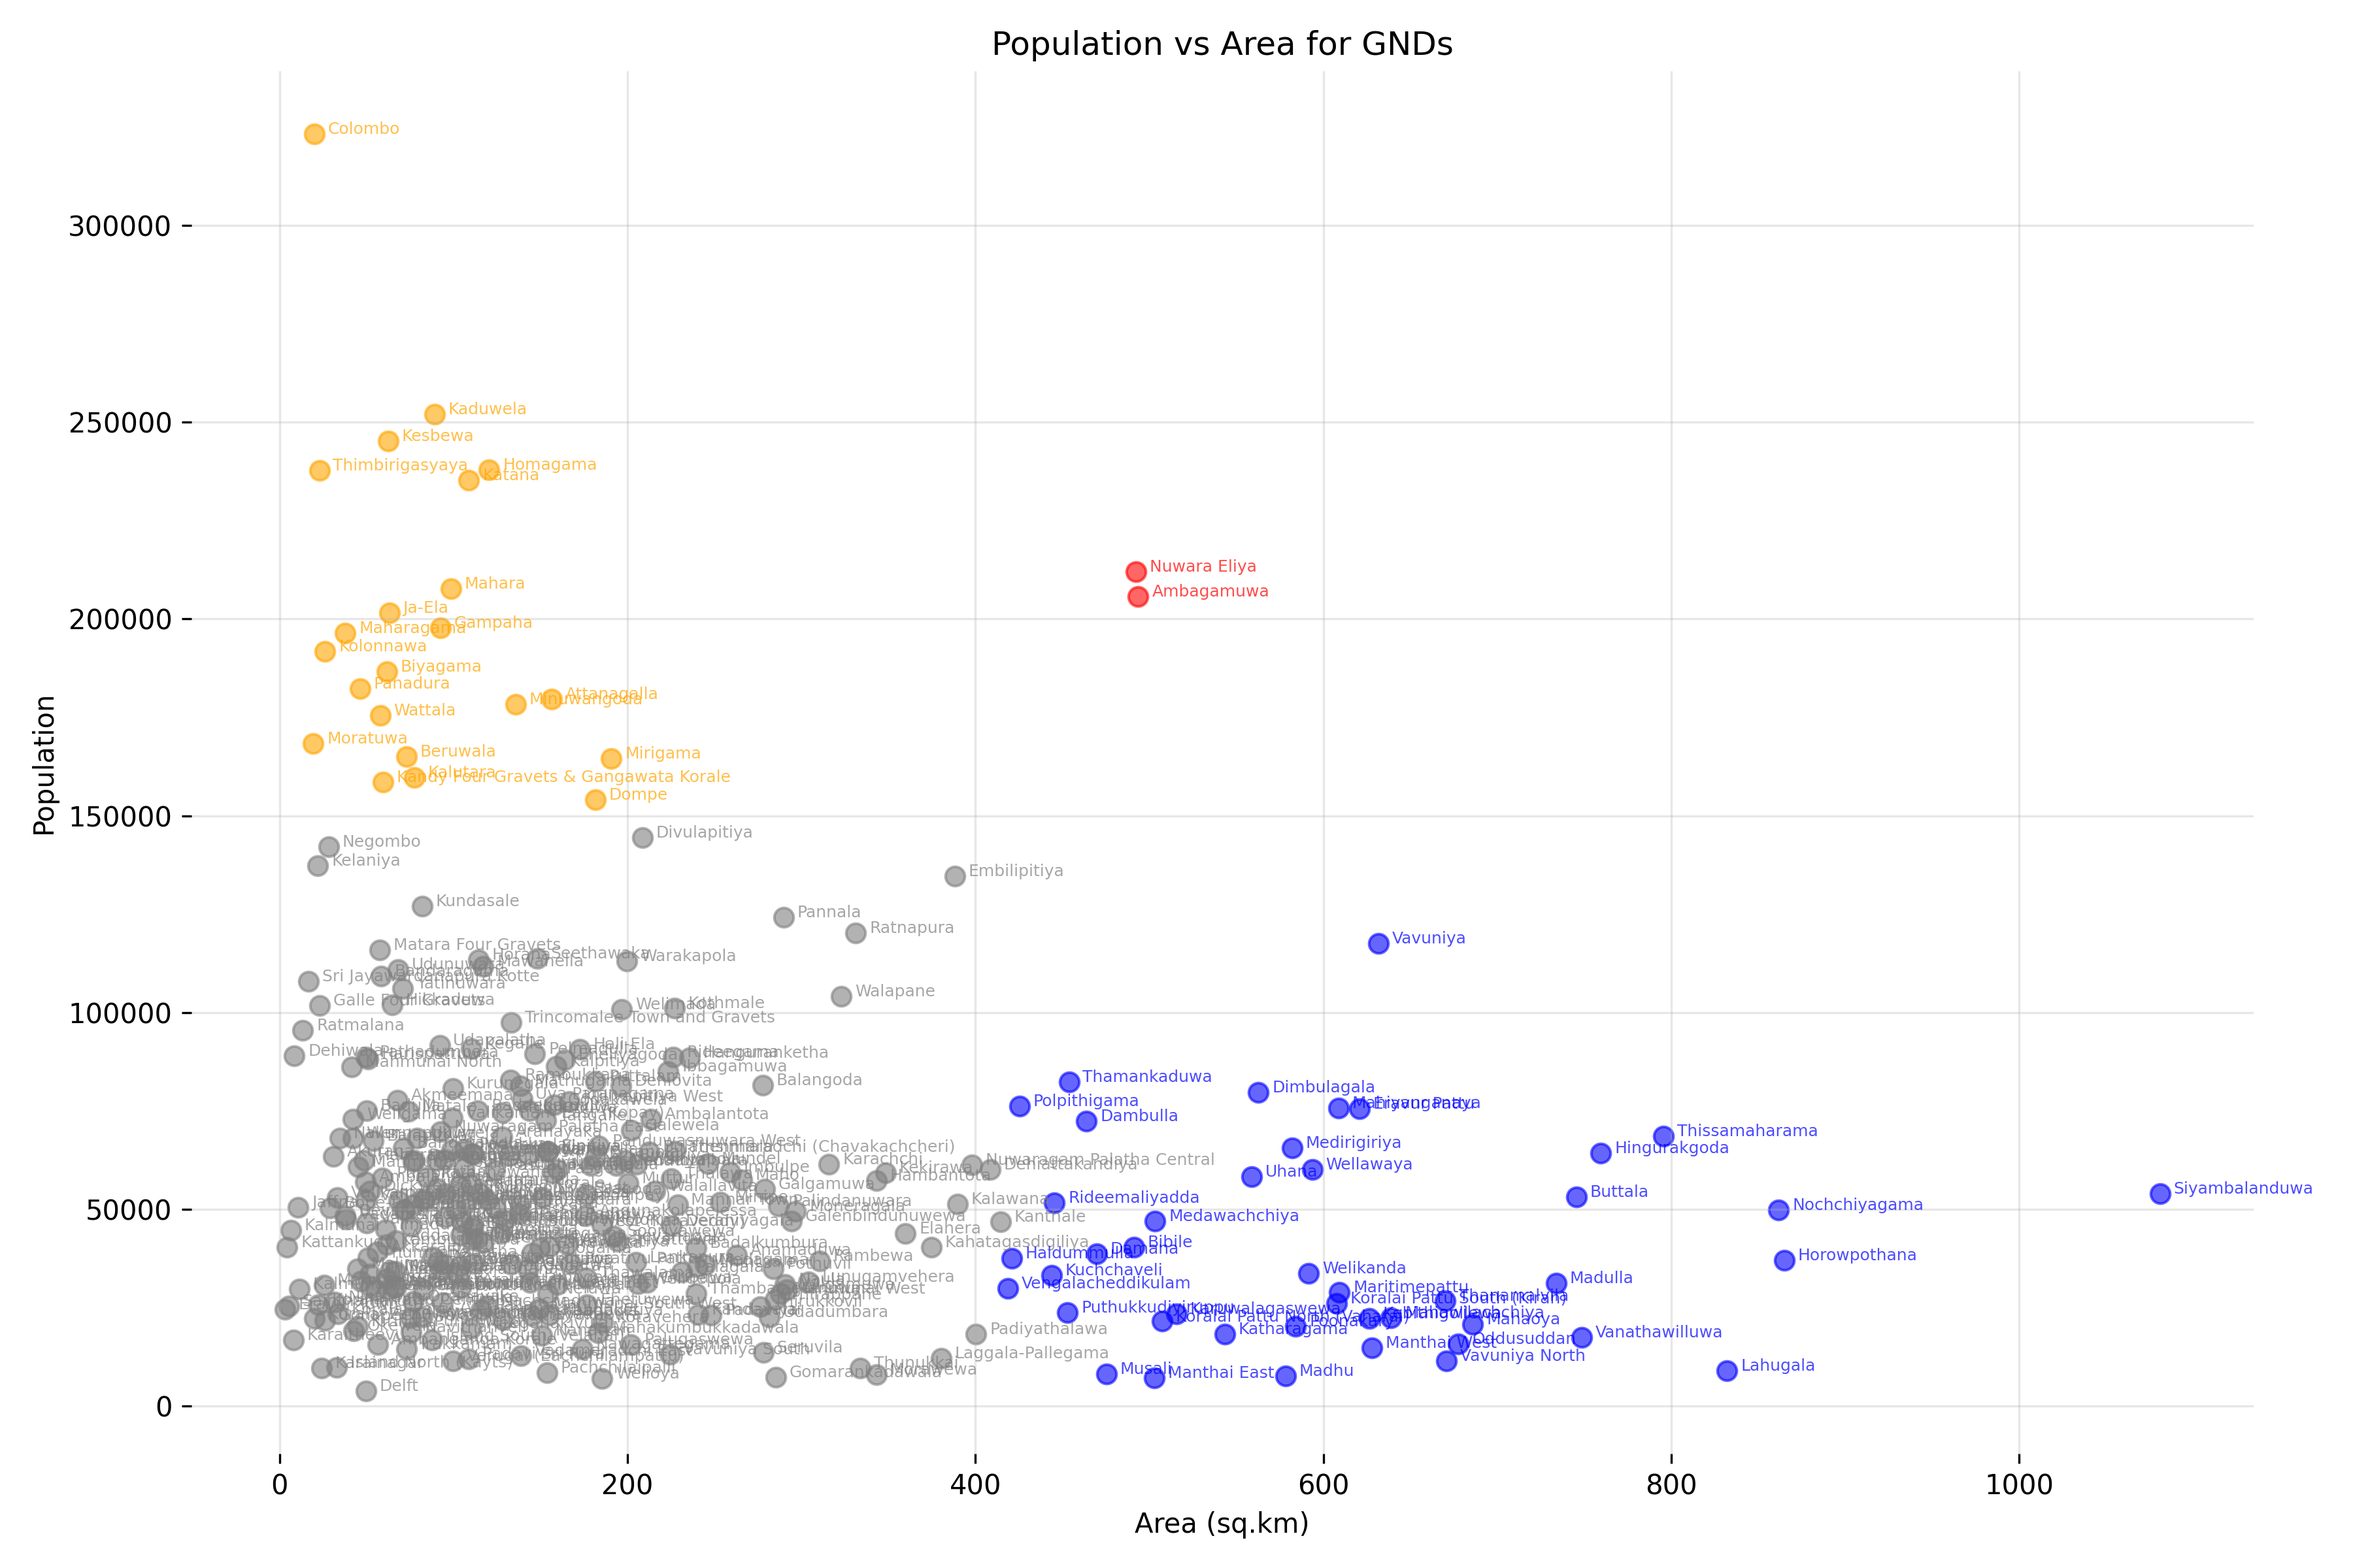
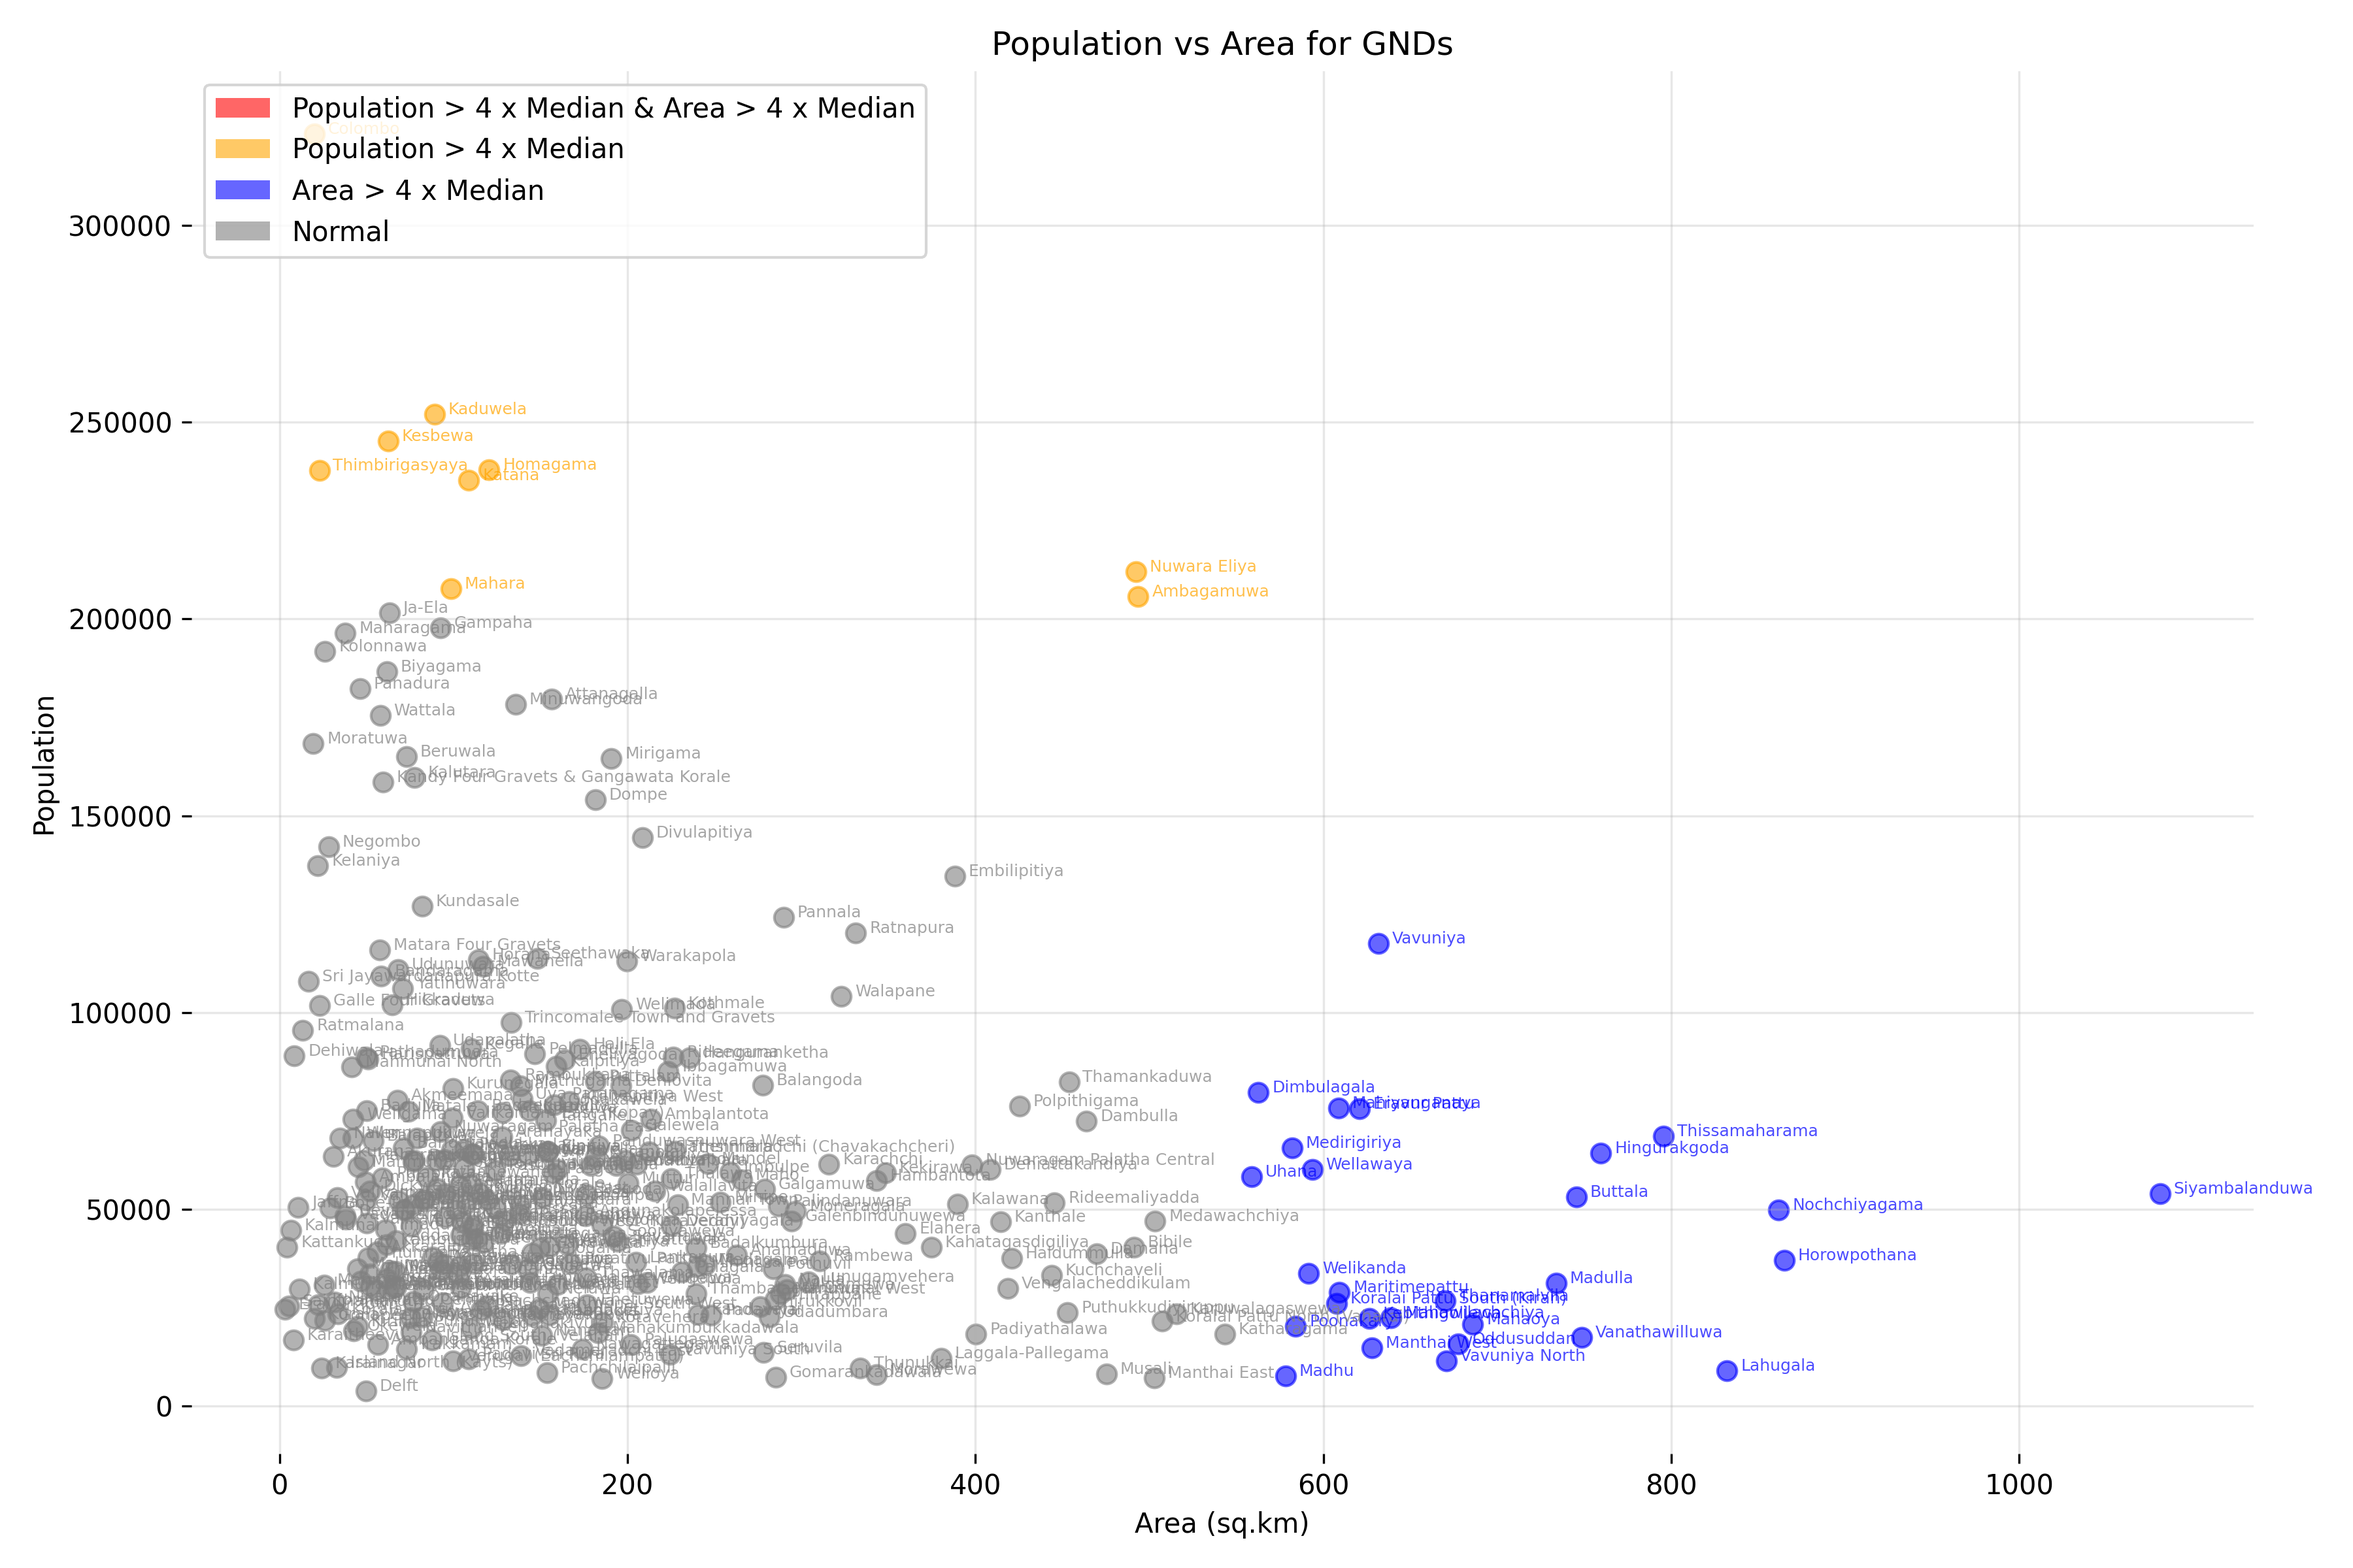
Update reasonable factor for thresholds and add legend to population vs area plot

diff --git a/example_analyses/gnds/__main__.py b/example_analyses/gnds/__main__.py
@@ -10,7 +10,7 @@ from gig import Ent, EntType
 log = Log(os.path.basename(os.path.dirname(__file__)))
 
 ENT_TYPE = EntType.DSD
-REASONABLE_FACTOR = 3
+REASONABLE_FACTOR = 4
 
 
 def draw_histogram(title, values, unit):
@@ -102,6 +102,29 @@ def draw_xy_plot(ents):
     plt.ylabel("Population")
     plt.title("Population vs Area for GNDs")
     plt.grid(True, alpha=0.3)
+
+    # Add legend
+    from matplotlib.patches import Patch
+
+    legend_elements = [
+        Patch(
+            facecolor="red",
+            alpha=0.6,
+            label=f"Population > {REASONABLE_FACTOR} x Median & Area > {REASONABLE_FACTOR} x Median",
+        ),
+        Patch(
+            facecolor="orange",
+            alpha=0.6,
+            label=f"Population > {REASONABLE_FACTOR} x Median",
+        ),
+        Patch(
+            facecolor="blue",
+            alpha=0.6,
+            label=f"Area > {REASONABLE_FACTOR} x Median",
+        ),
+        Patch(facecolor="gray", alpha=0.6, label="Normal"),
+    ]
+    plt.legend(handles=legend_elements, loc="upper left")
 
     # Remove box/spines
     ax = plt.gca()
